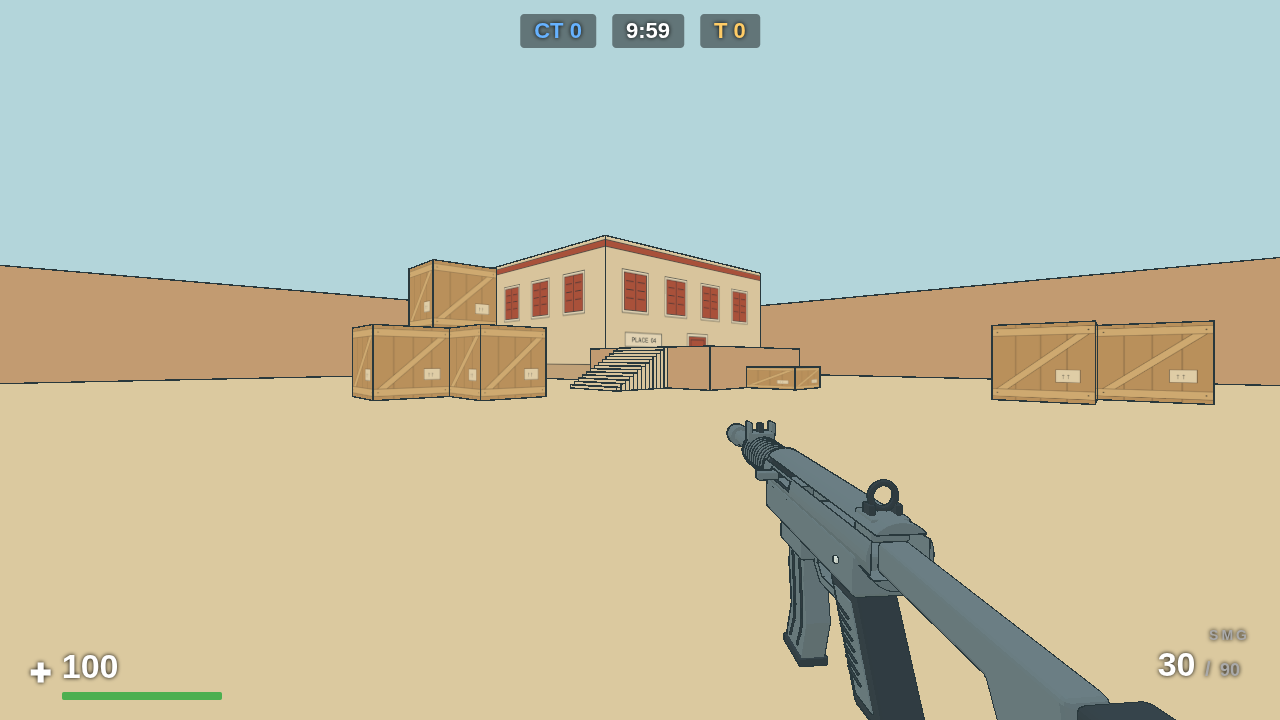
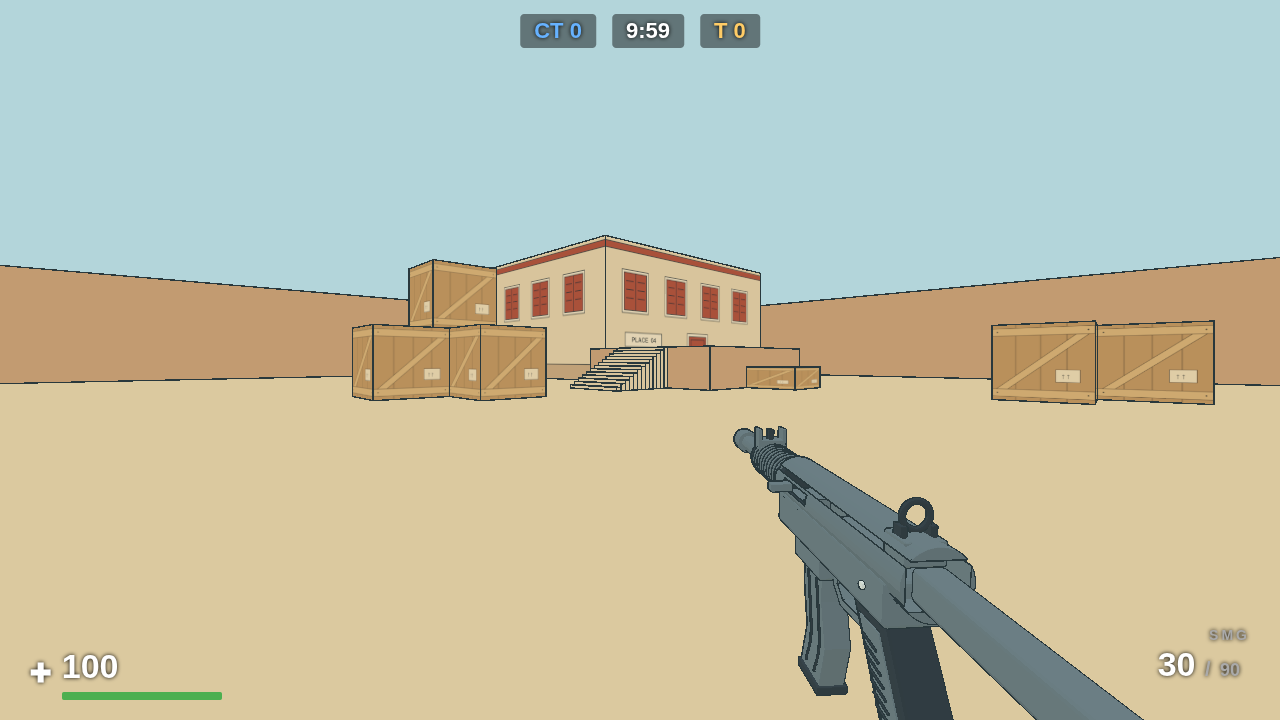
Draw the SMG back along its bore until its butt clears the hip frame; label the revolver a .44 Magnum
With every grip on the shared hand point, the real-sized SMG's short stock
ended inside the frame's lower edge and showed its butt pad.
sim/viewmodelHold.ts:slideToClear measures how far a long gun must slide
back along its own bore for its last 5 cm to clear the bottom edge with
view bob; only the SMG moves (4.5 cm), and the bore keeps its aim point.
A new sight-picture test holds every long gun's butt out of the hip frame.
The trimmed revolver cylinder (50 mm, 11.5 mm chambers) is .44 Magnum
sized, not .357; the labels now say so.

Claude-Session: https://claude.ai/code/session_01UBRpYZoy1oHdxivLJ4z8qF

diff --git a/src/core/weaponModels.ts b/src/core/weaponModels.ts
@@ -2,8 +2,8 @@
 // Coordinates are metres: the muzzle points down -z. The outer group owns poses.
 import * as THREE from 'three';
 import { createCelMaterial } from './materials';
-import type { WeaponId } from './state';
-import { hipHold } from '../sim/viewmodelHold';
+import { BASE_FOV, CAMERA_NEAR, type WeaponId } from './state';
+import { hipHold, rotateYawPitch, slideToClear, type Vec3 } from '../sim/viewmodelHold';
 import { attachmentPoint, createAuthoredWeaponRig, type AuthoredWeaponRig, type WeaponAssets } from './weaponAssets';
 
 /** A body pose: camera-space position of the model origin, and its rotation. */
@@ -38,6 +38,27 @@ const HIP_CONVERGENCE = 3;
 /** Handgun sight-line origin distance at full ADS (m), arms extended. */
 const HANDGUN_ADS_DEPTH = 0.44;
 const SHOULDERED: ReadonlySet<WeaponId> = new Set(['smg', 'ak47', 'sniper', 'shotgun']);
+/** Depth (m) of the stock's rear taken as its butt: the SMG's pad alone is ~4 cm. */
+const BUTT_PLATE = 0.05;
+/** View bob can raise the hip weapon this much (m): player.ts's walking bobAmt. */
+const HIP_BOB = 0.02;
+
+/** Model-space vertices of every mesh under `root` (unparented) with z beyond `z`. */
+function verticesBehind(root: THREE.Object3D, z: number): Vec3[] {
+  root.updateMatrixWorld(true);
+  const out: Vec3[] = [];
+  const v = new THREE.Vector3();
+  root.traverse(node => {
+    if (!(node instanceof THREE.Mesh)) return;
+    const mesh = node as THREE.Mesh<THREE.BufferGeometry, THREE.Material | THREE.Material[]>;
+    const position = mesh.geometry.getAttribute('position');
+    for (let i = 0; i < position.count; i++) {
+      v.fromBufferAttribute(position, i).applyMatrix4(mesh.matrixWorld);
+      if (v.z > z) out.push({ x: v.x, y: v.y, z: v.z });
+    }
+  });
+  return out;
+}
 
 function required(node: THREE.Object3D | undefined, id: WeaponId): THREE.Object3D {
   if (!node) throw new Error(`Viewmodel: ${id} has no muzzle to hold by`);
@@ -54,6 +75,7 @@ export function createWeaponViewModel(id: WeaponId, weaponAssets: WeaponAssets):
   const authored = createAuthoredWeaponRig(id, weaponAssets[id]);
   // Measured while the root is still unparented, so the box is in model space.
   const butt = new THREE.Box3().setFromObject(authored.root).max.z;
+  const buttPlate = SHOULDERED.has(id) ? verticesBehind(authored.root, butt - BUTT_PLATE) : [];
   body.add(authored.root);
   // Authored sight height above the model origin; scaled with each model to
   // real size (scripts/assets/real-size.py).
@@ -76,6 +98,12 @@ export function createWeaponViewModel(id: WeaponId, weaponAssets: WeaponAssets):
     const grip = attachmentPoint(authored.grip, authored.root);
     const muzzle = attachmentPoint(required(authored.muzzle, id), authored.root);
     const hip = hipHold(grip, muzzle, HIP_GRIP, HIP_CONVERGENCE);
+    // A stock shorter than the others (the real-sized SMG's) would end inside
+    // the frame's lower edge with the grip on the shared hand point; draw it
+    // back along its bore until the butt plate is out of view. Measured, so a
+    // stock that already runs off the frame does not move.
+    const slide = slideToClear(buttPlate, hip, Math.tan(BASE_FOV * Math.PI / 360), CAMERA_NEAR, HIP_BOB);
+    const back = rotateYawPitch({ x: 0, y: 0, z: 1 }, hip.yaw, hip.pitch);
     // Straight, with the grip still on the hand point: ADS unwinds the cant
     // about the hand rather than swinging the gun about the eye.
     const aim = new THREE.Vector3(HIP_GRIP.x - grip.x, HIP_GRIP.y - grip.y, HIP_GRIP.z - grip.z);
@@ -83,7 +111,7 @@ export function createWeaponViewModel(id: WeaponId, weaponAssets: WeaponAssets):
     // stock runs out of view below the eye instead of standing in the frame.
     const depth = SHOULDERED.has(id) ? butt : HANDGUN_ADS_DEPTH;
     hold = {
-      hip: { position: new THREE.Vector3(hip.position.x, hip.position.y, hip.position.z),
+      hip: { position: new THREE.Vector3(hip.position.x, hip.position.y, hip.position.z).addScaledVector(new THREE.Vector3(back.x, back.y, back.z), slide),
         quaternion: new THREE.Quaternion().setFromEuler(new THREE.Euler(hip.pitch, hip.yaw, 0, 'YXZ')) },
       aim: { position: aim, quaternion: new THREE.Quaternion() },
     };

diff --git a/src/sim/viewmodelHold.test.ts b/src/sim/viewmodelHold.test.ts
@@ -1,6 +1,6 @@
 import { describe, expect, test } from 'vitest';
 import { Euler, Vector3 } from 'three';
-import { hipHold, rotateYawPitch } from './viewmodelHold';
+import { hipHold, rotateYawPitch, slideToClear } from './viewmodelHold';
 
 const anchor = { x: 0.22, y: -0.26, z: -0.44 };
 // A rifle and a pistol, grip and muzzle markers in model space (m).
@@ -41,4 +41,33 @@ describe('hipHold', () => {
       expect(hold.pitch).toBeGreaterThan(0);
     });
   }
+});
+
+describe('slideToClear', () => {
+  const hold = hipHold(weapons.rifle.grip, weapons.rifle.muzzle, anchor, 3);
+  const slope = Math.tan(75 * Math.PI / 360);
+  const place = (p: { x: number; y: number; z: number }, slide: number) => {
+    const r = rotateYawPitch(p, hold.yaw, hold.pitch);
+    const back = rotateYawPitch({ x: 0, y: 0, z: 1 }, hold.yaw, hold.pitch);
+    return { y: hold.position.y + r.y + back.y * slide, z: hold.position.z + r.z + back.z * slide };
+  };
+
+  test('a point already out of frame needs no slide', () => {
+    expect(slideToClear([{ x: 0, y: -0.3, z: 0.1 }], hold, slope, 0.075, 0)).toBe(0);
+  });
+
+  test('a butt in frame slides back until it clears, and no further than a step past', () => {
+    const butt = { x: 0, y: -0.02, z: 0.2 };
+    expect(place(butt, 0).y).toBeGreaterThan(place(butt, 0).z * slope);
+    const slide = slideToClear([butt], hold, slope, 0.075, 0.02);
+    expect(slide).toBeGreaterThan(0);
+    const at = place(butt, slide);
+    expect(at.z > -0.075 || at.y + 0.02 < at.z * slope).toBe(true);
+    const before = place(butt, slide - 0.005);
+    expect(before.z > -0.075 || before.y + 0.02 < before.z * slope).toBe(false);
+  });
+
+  test('a point that can never clear is a named error, not a silent zero', () => {
+    expect(() => slideToClear([{ x: 0, y: 5, z: -5 }], hold, slope, 0.075, 0)).toThrow(/no slide/);
+  });
 });

diff --git a/src/sim/viewmodelHold.ts b/src/sim/viewmodelHold.ts
@@ -52,3 +52,28 @@ export function hipHold(grip: Vec3, muzzle: Vec3, anchor: Vec3, convergence: num
   const g = rotateYawPitch(grip, yaw, pitch);
   return { position: { x: anchor.x - g.x, y: anchor.y - g.y, z: anchor.z - g.z }, yaw, pitch };
 }
+
+/**
+ * How far (m) to slide a hold back along its own bore until every point in
+ * `points` (model space) is out of the bottom of the frame: below the edge
+ * `slope` = tan(vfov / 2), or behind the near plane. `lift` is how far the
+ * view may raise them (view bob), so the clearance survives it.
+ *
+ * Sliding along the bore keeps the bore line through the convergence point,
+ * so the hold still aims where hipHold put it; only the grip leaves its hand
+ * point, by exactly the returned distance. 0 when the points already clear.
+ */
+export function slideToClear(points: readonly Vec3[], hold: HipHold, slope: number, near: number,
+  lift: number, step = 0.005, limit = 0.3): number {
+  const back = rotateYawPitch({ x: 0, y: 0, z: 1 }, hold.yaw, hold.pitch);
+  const placed = points.map(p => {
+    const r = rotateYawPitch(p, hold.yaw, hold.pitch);
+    return { x: hold.position.x + r.x, y: hold.position.y + r.y, z: hold.position.z + r.z };
+  });
+  const clear = (slide: number) => placed.every(p => {
+    const y = p.y + back.y * slide + lift, z = p.z + back.z * slide;
+    return z > -near || y < z * slope;
+  });
+  for (let slide = 0; slide <= limit; slide += step) if (clear(slide)) return slide;
+  throw new Error(`Viewmodel hold: no slide within ${limit} m clears the frame`);
+}

diff --git a/scripts/assets/real-size.py b/scripts/assets/real-size.py
@@ -26,7 +26,7 @@ ROOT = Path(__file__).resolve().parents[2]
 # weapon each one stands in for:
 REAL_SIZE = {
     'pistol': .70,    # 0.21 m  (full-size service pistol, 0.19-0.22 m)
-    'revolver': .85,  # 0.27 m  (5-6 in .357 revolver, 0.26-0.30 m)
+    'revolver': .85,  # 0.27 m  (5 in .44 Magnum, 0.26-0.30 m)
     'sawnOff': .80,   # 0.39 m  (pistol-grip sawn-off); bore 18.4 mm = 12 gauge
     'smg': .80,       # 0.68 m  (MP5 / UMP, 0.68-0.69 m)
     'shotgun': .92,   # 0.99 m  (18-20 in pump gun, 0.99-1.0 m)
@@ -34,9 +34,11 @@ REAL_SIZE = {
 }
 # The sniper (1.14 m) and knife (0.30 m, issue #143) are already real-sized.
 
-# After the uniform pass the cylinder is still 66 mm across on a 34 mm frame;
-# a real six-shot .357 cylinder is 40-44 mm. Trimmed about its own axis it
-# stays round and keeps indexing; its length along the bore is untouched.
+# After the uniform pass the cylinder is still 66 mm across on a 34 mm frame.
+# The revolver is the one-headshot sidearm, a .44 Magnum: a six-shot N-frame
+# cylinder is ~44 mm with ~11.7 mm chambers. Trimmed, this one is 50 mm with
+# 11.5 mm chambers. About its own axis it stays round and keeps indexing; its
+# length along the bore is untouched.
 REVOLVER_CYLINDER_TRIM = .75
 CYLINDER_PARTS = ('Cylinder / six chamber rotor', 'Extractor hub')
 # Top chamber centre before any scaling: the chamber the crane swing exposes.

diff --git a/docs/assets.md b/docs/assets.md
@@ -49,7 +49,7 @@ pivots all keep their relationships and the sight line scales with the gun:
 | Weapon | Scale | Overall length | Real reference |
 | --- | --- | --- | --- |
 | pistol | 0.70 | 0.21 m | full-size service pistol, 0.19–0.22 m |
-| revolver | 0.85 | 0.27 m | 5–6 in .357, 0.26–0.30 m |
+| revolver | 0.85 | 0.27 m | 5 in .44 Magnum, 0.26–0.30 m |
 | sawnOff | 0.80 | 0.39 m | pistol-grip sawn-off; 18.4 mm (12-gauge) bore |
 | smg | 0.80 | 0.68 m | MP5 / UMP, 0.68–0.69 m |
 | shotgun | 0.92 | 0.99 m | 18–20 in pump gun |
@@ -58,7 +58,8 @@ pivots all keep their relationships and the sight line scales with the gun:
 | knife | — | 0.30 m | already real-sized (issue #143) |
 
 The revolver's cylinder is additionally trimmed to 0.75 of its radius about its
-own axis, so it stays round and keeps indexing. Two steel fills close the frame
+own axis, so it stays round and keeps indexing. It comes out at 50 mm with
+11.5 mm chambers: .44 Magnum proportions, for the one-headshot sidearm. Two steel fills close the frame
 window above and below it. The loading marker moved into the source as
 `Reload.Chamber`, so the exporter no longer hard-codes a chamber position that
 the trim would have left behind.
@@ -83,7 +84,11 @@ Every firearm viewmodel is placed by one rule rather than per-weapon offsets
 `grip_right` marker sits on one shared hand point, and the bore is turned to
 cross the crosshair 3 m out, so each weapon shows at its real size with the
 same inward cant. Aiming unwinds that cant about the hand, then puts the sight
-line on the view axis. Long guns are shouldered with the butt on the eye plane,
+line on the view axis. A long gun whose butt would still end inside the frame
+at the hip (the SMG's short stock) is drawn back along its bore until its last
+5 cm clears the bottom edge with view bob, by a measured amount
+(`sim/viewmodelHold.ts:slideToClear`), which keeps it on the same aim point.
+Long guns are shouldered with the butt on the eye plane,
 and handguns sit with their origin 0.44 m out. The knife keeps its own
 hand-derived hold (issue #143). `scripts/viewmodel-shots.mjs` captures hip,
 ADS and reload views of all eight weapons for comparison.
